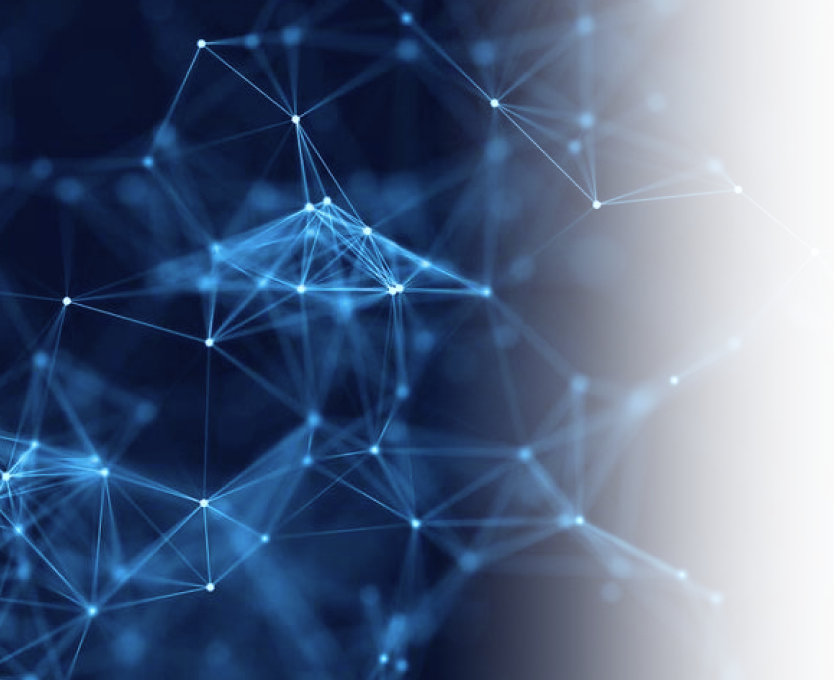
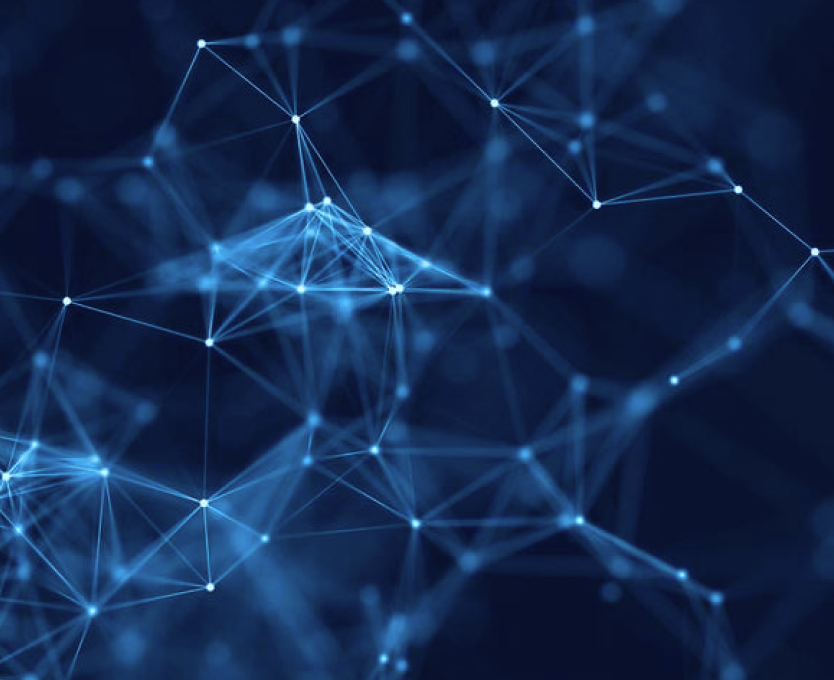
carousel fade bug fixes + better scaling

diff --git a/pages/index.tsx b/pages/index.tsx
@@ -5,64 +5,63 @@ function HomePage() {
   return (
     <>
       {/* Background colour cone */}
-      <div className="max-w-full cone animate-wiggle"></div>
-      <div className="relative">
-        {/* 1 */}
-        <div className="min-h-screen">
-          <main className="flex items-center h-full px-4 mx-auto mt-10 sm:mt-12 sm:px-6 md:mt-16 lg:mt-20 lg:px-8 xl:mt-28">
-            {/* Text part */}
-            <div className="items-start w-full sm:text-center lg:text-left">
-              <h1 className="text-4xl font-bold tracking-tight text-gray-200 sm:text-5xl sm:tracking-tight md:text-6xl md:tracking-tight">
-                <span className="block">The Decentralized world of</span>
-                <span className="block text-gray-200">Cryptocurrency</span>
-              </h1>
-              <p className="mt-3 text-gray-200 sm:mt-5 sm:text-lg sm:max-w-xl sm:mx-auto md:mt-5 md:text-2xl lg:mx-0">
-                Buy, sell and earn crypto.
-              </p>
-              <div className="mt-5 sm:mt-8 sm:flex sm:justify-center lg:justify-start">
-                {/* Get started button */}
-                <div>
-                  <button className="w-full h-full flex items-center justify-center px-8 py-3 text-base font-medium rounded-md text-white bg-gradient-to-r from-[#4FC0FF] via-[#6977EE] to-[#FF6098] md:py-4 md:text-lg md:px-10 hover:opacity-80 transition-all ease-in duration-75">
-                    <a href="#">Get started</a>
-                  </button>
-                </div>
+      <div className="max-w-full cone animate-wiggle -z-10"></div>
 
-                <div className="mt-2 sm:mt-0">
-                  {/* Dashboard button */}
-                  <div className="sm:ml-3 bg-gradient-to-r from-[#4FC0FF] via-[#6977EE] to-[#FF6098] rounded-lg p-0.5 ">
-                    <button className="w-full flex items-center justify-center text-base font-medium rounded-md px-8 py-3 md:py-3.5 md:text-lg md:px-8 hover:bg-gray-200 bg-gray-100 dark:bg-gray-900 dark:hover:bg-gray-700 transition-all ease-in duration-75 text-gray-900 dark:text-gray-200">
-                      <a href="/dashboard">View Dashboard</a>
-                    </button>
-                  </div>
+      {/* 1 */}
+      <div className="min-h-screen">
+        <main className="flex items-center h-full px-4 mx-auto mt-10 sm:mt-12 sm:px-6 md:mt-16 lg:mt-20 lg:px-8 xl:mt-28">
+          {/* Text part */}
+          <div className="items-start w-full sm:text-center lg:text-left">
+            <h1 className="text-4xl font-bold tracking-tight text-gray-200 sm:text-5xl sm:tracking-tight md:text-6xl md:tracking-tight">
+              <span className="block">The Decentralized world of</span>
+              <span className="block text-gray-200">Cryptocurrency</span>
+            </h1>
+            <p className="mt-3 text-gray-200 sm:mt-5 sm:text-lg sm:max-w-xl sm:mx-auto md:mt-5 md:text-2xl lg:mx-0">
+              Buy, sell and earn crypto.
+            </p>
+            <div className="mt-5 sm:mt-8 sm:flex sm:justify-center lg:justify-start">
+              {/* Get started button */}
+              <div>
+                <button className="w-full h-full flex items-center justify-center px-8 py-3 text-base font-medium rounded-md text-white bg-gradient-to-r from-[#4FC0FF] via-[#6977EE] to-[#FF6098] md:py-4 md:text-lg md:px-10 hover:opacity-80 transition-all ease-in duration-75">
+                  <a href="#">Get started</a>
+                </button>
+              </div>
+
+              <div className="mt-2 sm:mt-0">
+                {/* Dashboard button */}
+                <div className="sm:ml-3 bg-gradient-to-r from-[#4FC0FF] via-[#6977EE] to-[#FF6098] rounded-lg p-0.5 ">
+                  <button className="w-full flex items-center justify-center text-base font-medium rounded-md px-8 py-3 md:py-3.5 md:text-lg md:px-8 hover:bg-gray-200 bg-gray-100 dark:bg-gray-900 dark:hover:bg-gray-700 transition-all ease-in duration-75 text-gray-900 dark:text-gray-200">
+                    <a href="/dashboard">View Dashboard</a>
+                  </button>
                 </div>
               </div>
             </div>
-            {/* <div className="w-1/2">
+          </div>
+          {/* <div className="w-1/2">
             <video className="w-full h-full " autoPlay loop>
               <source src="/logo_vid.mp4" />
             </video>
           </div> */}
-          </main>
-        </div>
-        {/* 2 */}
-        <div className="mb-32">
-          <Carousel />
-        </div>
-        {/* 3 */}
-        <div className="flex items-start justify-center mb-32 min-h-fit">
-          <div className="mx-2 my-20 text-center text-gray-900 dark:text-gray-200">
-            <h1 className="text-4xl font-bold tracking-tight sm:text-5xl sm:tracking-tight md:text-6xl md:tracking-tight">
-              <span className="block">Are you ready to join us?</span>
-            </h1>
-            <div className="mt-3 mr-0 text-center sm:mt-5 sm:text-lg sm:max-w-xl sm:mx-auto md:mt-5 md:text-2xl lg:mx-0">
-              <span className="mr-0">Find more information about QuantiFi.</span>
-            </div>
-            {/* Glowing buttons, need to stay together */}
-            <div className="flex items-center justify-center mt-5 max-h-16">
-              <button className="items-center w-8/12 text-2xl text-center btnAnimated rounded-2xl h-14 font-lg">
-                <div className="z-10">Get started</div>
-              </button>
-            </div>
+        </main>
+      </div>
+      {/* 2 */}
+      <div className="mb-32 ">
+        <Carousel />
+      </div>
+      {/* 3 */}
+      <div className="flex items-start justify-center mb-32 min-h-fit">
+        <div className="mx-2 my-20 text-center text-gray-900 dark:text-gray-200">
+          <h1 className="text-4xl font-bold tracking-tight sm:text-5xl sm:tracking-tight md:text-6xl md:tracking-tight">
+            <span className="block">Are you ready to join us?</span>
+          </h1>
+          <div className="mt-3 mr-0 text-center sm:mt-5 sm:text-lg sm:max-w-xl sm:mx-auto md:mt-5 md:text-2xl lg:mx-0">
+            <span className="mr-0">Find more information about QuantiFi.</span>
+          </div>
+          {/* Glowing buttons, need to stay together */}
+          <div className="flex items-center justify-center mt-5 max-h-16">
+            <button className="items-center w-8/12 text-2xl text-center btnAnimated rounded-2xl h-14 font-lg">
+              <div className="z-10">Get started</div>
+            </button>
           </div>
         </div>
       </div>

diff --git a/components/carousel.tsx b/components/carousel.tsx
@@ -70,24 +70,24 @@ function Carousel() {
 
   return (
     <>
-      <div className="h-full overflow-hidden embla" ref={emblaRef}>
+      <div className="h-full overflow-hidden md:h-screen embla" ref={emblaRef}>
         <div className="flex">
           {slides.map((slide) => {
             return (
               // Slide
               <div key={slide.id} className="flex flex-col-reverse flex-embla sm:flex-row">
                 {/* Image half */}
-                <div className="flex items-center justify-center w-full h-full bg-center bg-no-repeat bg-cover sm:w-1/2 bg-center-right">
-                  <div className="absolute w-1/2 h-full bg-gradient-to-r from-transparent via-transparent to-qdark bg-right-center"></div>
+                <div className="flex items-center justify-center w-full bg-center bg-no-repeat bg-cover h-[48vh] sm:h-full sm:w-1/2 bg-center-right">
+                  <div className="absolute w-full h-[49vh] sm:h-full sm:w-1/2 bg-gradient-to-t sm:bg-gradient-to-r from-transparent via-transparent to-black bg-right-center"></div>
                   <img className="object-cover w-full h-full" src={slide.img} />
                 </div>
                 {/* Text half */}
-                <div className="flex flex-col items-center justify-center w-full text-5xl text-center sm:w-1/2 sm:items-center sm:text-left">
-                  <div className="max-w-md px-5">
+                <div className="flex flex-col items-center sm:justify-center w-full py-6 text-5xl text-center bg-black sm:w-1/2 sm:items-center sm:text-left sm:h-full h-[49vh] z-20 max-h-fit overflow-visible justify-start">
+                  <div className="max-w-md px-5 overflow-visible bg-gradient-to-t from-transparent to-black sm:bg-transparent">
                     {/* Title */}
                     <div className="mb-4 md:mb-0">
                       {slide.header.keyword.first ? (
-                        <p className="font-sans font-light">
+                        <p className="font-sans font-light ">
                           <span className="text-transparent bg-clip-text bg-gradient-to-r from-[#4FC0FF] via-[#6977EE] to-[#FF6098]">
                             {slide.header.keyword.content}
                           </span>{" "}
@@ -103,7 +103,9 @@ function Carousel() {
                       )}
                     </div>
                     {/* Description */}
-                    <p className="mt-2 mb-3 font-sans text-xl sm:mt-6 md:mb-0">{slide.desc}</p>
+                    <p className="mt-2 mb-3 overflow-visible font-sans text-xl sm:mt-6 md:mb-0">
+                      {slide.desc}
+                    </p>
                   </div>
                 </div>
               </div>

diff --git a/tailwind.config.js b/tailwind.config.js
@@ -26,7 +26,8 @@ module.exports = {
         'qdark': '#040D16'
       }, minHeight: {
         '90vh': '90vh',
-      }
+        '50vh': '50vh',
+      },
     },
   },
   plugins: [

diff --git a/styles/globals.css b/styles/globals.css
@@ -68,7 +68,7 @@
   background-color: #efefef;
   opacity: 0.5;
   width: 100%;
-  height: 4px;
+  height: 8px;
   border-radius: 2px;
   content: "";
 }
